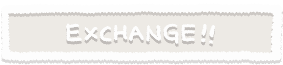
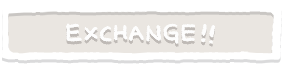
fix flip delay when user scroll to lower half, also change flip buttom asset

diff --git a/2024/gallery.js b/2024/gallery.js
@@ -9,6 +9,8 @@ var YEAR = "0000";
 //============================//
 
 var displayGroup = "sender";
+var documentHeight = 0;
+var scrollPos = 0;
 
 //===================//
 //    URL Getters    //
@@ -38,6 +40,7 @@ function getGiftUrl(gift) {
 
 function setUpFlipToggle() {
     $(".exchangeButton").click(function () {
+        setFlipDelay();
         if (displayGroup === "sender") {
             //set to getter
             $(".cardInner").css("transform", "rotateY(180deg)");
@@ -118,12 +121,23 @@ function setUpGridStyle(obtainedGifts2024) {
         setBackgroundImage(".grid-item:nth-child(" + (i + 1) + ") .cardBack .previewInner",
             getArtUrl("getter", ENTRIES.findIndex(entry => entry.received === Number(ocIndex))),
             getPlaceholderArt());
-
-        // delay style for each grid tem
-        $(".grid-item:nth-child(" + (i + 1) + ") .cardInner")
-            .css("transition-delay", i * 0.02 + "s");
         i++;
     }
+}
+
+function setFlipDelay() {
+    for (var i = 0; i < obtainedGiftData.split(",").length; i++) {
+        // delay style for each grid tem
+        $(".grid-item:nth-child(" + (i + 1) + ") .cardInner")
+            .css("transition-delay", i * getFlipDelay() + "s");
+    }
+}
+
+function getFlipDelay() {
+    if (scrollPos / documentHeight > 0.45) {
+        return 0.01;
+    }
+    return 0.03;
 }
 
 //============================//
@@ -194,6 +208,7 @@ function setUpArtModalClickEvents() {
 }
 
 function applyExtraModalStyle(dataID) {
+    forceSetArtHeight();
     const img = new Image();
     img.onload = function () {
         $(".art_wrap").css("max-width", (this.width / this.height) * 750);
@@ -241,7 +256,7 @@ function resetScrollBar() {
         }, 250);
 }
 
-function calculateLoadProgress(){
+function calculateLoadProgress() {
     let resourcesLoaded = 0;
     let totalResources = $('img, link[rel="stylesheet"], script').length;
 
@@ -263,6 +278,26 @@ function setupStuff() {
     setUpItemModalClickEvents();
 }
 
+function forceSetArtHeight() {
+    var windowHeight = $(window).height();
+    if (windowHeight < 820) {
+        $(".art_wrap").css("width", "unset");
+        $(".art").css("height", (windowHeight - 60) + "px");
+        $(".author").css("font-size", '16px');
+    } else {
+        $(".art_wrap").css("width", "100%");
+        $(".art").css("height", "unset");
+        $(".author").css("font-size", '20px');
+    }
+}
+
+function removeLoaderScreen() {
+    $('#loadingScreen').fadeOut();
+    setTimeout(
+        function () {
+            $(".streamLink img").addClass("animateOnce");
+        }, 1000);
+}
 //======================//
 //                      //
 //    Ready Function    //
@@ -273,15 +308,26 @@ $(document).ready(function () {
     $("body").addClass("day");
     $(".flipButtonBG").css("width", "50%");
     $(".flipButtonBG2").css("width", "0");
+
     setupStuff();
     printSnow();
 
-    $(window).on('load', function () {
-        $('#loadingScreen').fadeOut();
-        setTimeout(
-            function () {
-                $(".streamLink img").addClass("animateOnce");
-            }, 1000);
-    })
+    //Scroll watcher
+    documentHeight = $(document).height();
+    console.log(documentHeight)
+    $(window).scroll(function () {
+        scrollPos = $(this).scrollTop();
+    });
+
+
+    //Handle window with tiny height
+    $(window).resize(() =>
+        forceSetArtHeight()
+    ).resize();
+
+    //Initial loader logic
+    $(window).on('load', () => removeLoaderScreen())
+    //In case the loader takes too long
+    setTimeout(removeLoaderScreen, 12 * 1000);
     calculateLoadProgress();
 });

diff --git a/2024/style/gallery.scss b/2024/style/gallery.scss
@@ -569,7 +569,7 @@ h4 {
 }
 .author {
 	// background-color: #c4a87f;
-	font-size: 1.4rem;
+	font-size: 20px;
 	font-family: "DFPT_AZ5", "HanyiZongyi", sans-serif;
 	color: white;
 	text-align: center;
@@ -583,7 +583,7 @@ h4 {
 		margin: 0 auto;
 		display: inline-block;
 		border-top: 1px solid white;
-		font-size: 1.15rem;
+		font-size: 0.9em;
 		padding: 4px 32px 0 32px;
 	}
 	a {

diff --git a/2024/style/gallery.css b/2024/style/gallery.css
@@ -498,7 +498,7 @@ h4 {
 }
 
 .author {
-  font-size: 1.4rem;
+  font-size: 20px;
   font-family: "DFPT_AZ5", "HanyiZongyi", sans-serif;
   color: white;
   text-align: center;
@@ -513,7 +513,7 @@ h4 {
   margin: 0 auto;
   display: inline-block;
   border-top: 1px solid white;
-  font-size: 1.15rem;
+  font-size: 0.9em;
   padding: 4px 32px 0 32px;
 }
 .author a {
